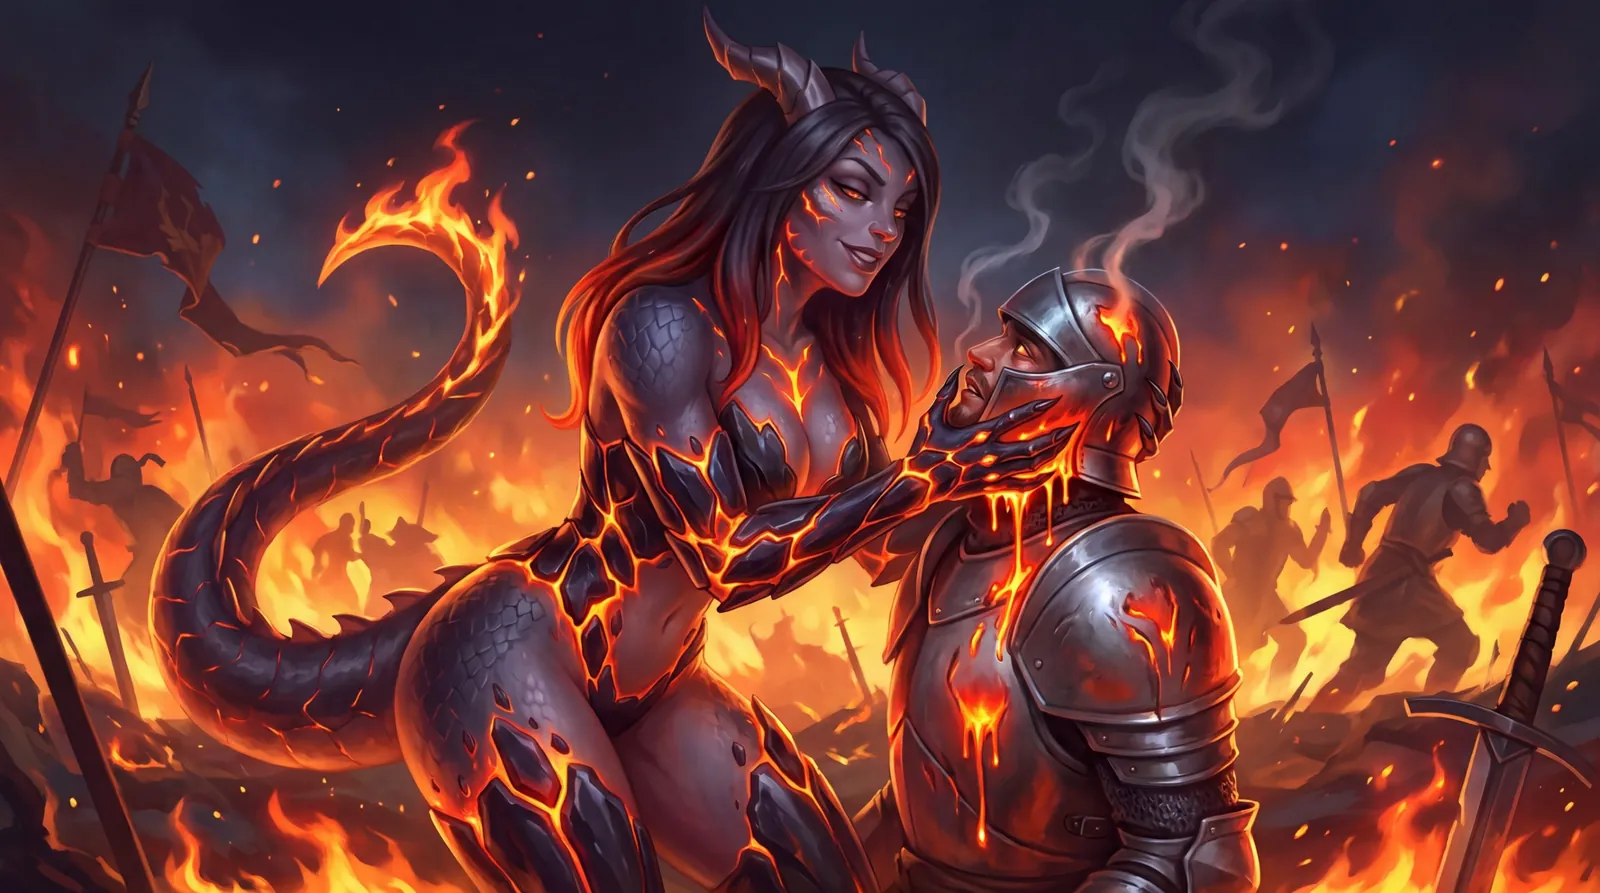
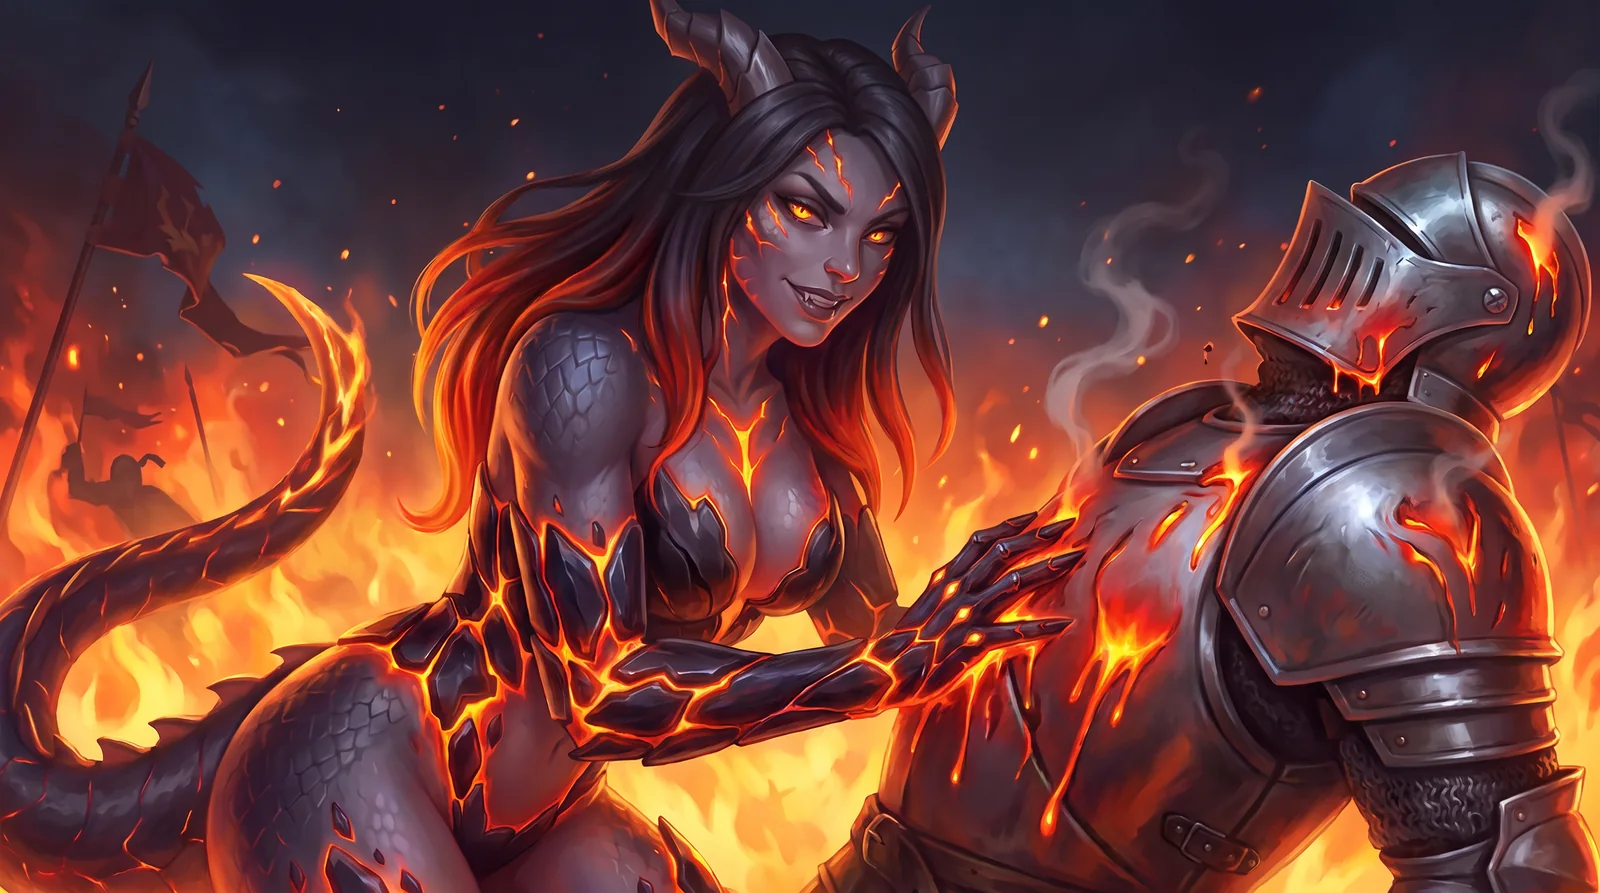
Site: Cinder splash, hot (low angle, melting breastplate)
Claude-Session: https://claude.ai/code/session_01Fa986kEoxoUbsf7VZzVwQa

diff --git a/presskit.html b/presskit.html
@@ -101,19 +101,19 @@
         </div>
         <h2>Hunter art</h2>
         <div class="pk-grid">
-          <a href="assets/img/hunters/lisette-2400.webp?v=2026-11-13o-faces-r1903" target="_blank"><img src="assets/img/hunters/lisette-960.webp?v=2026-11-13o-faces-r1903" alt="Lace splash art" loading="lazy"><span class="pk-cap">Lace</span></a>
-          <a href="assets/img/hunters/breaker-2400.webp?v=2026-11-13o-faces-r1903" target="_blank"><img src="assets/img/hunters/breaker-960.webp?v=2026-11-13o-faces-r1903" alt="Albert splash art" loading="lazy"><span class="pk-cap">Albert</span></a>
-          <a href="assets/img/hunters/vex-2400.webp?v=2026-11-13o-faces-r1903" target="_blank"><img src="assets/img/hunters/vex-960.webp?v=2026-11-13o-faces-r1903" alt="Vex splash art" loading="lazy"><span class="pk-cap">Vex</span></a>
-          <a href="assets/img/hunters/kael-2400.webp?v=2026-11-13o-faces-r1903" target="_blank"><img src="assets/img/hunters/kael-960.webp?v=2026-11-13o-faces-r1903" alt="Kael splash art" loading="lazy"><span class="pk-cap">Kael</span></a>
-          <a href="assets/img/hunters/claire-2400.webp?v=2026-11-13o-faces-r1903" target="_blank"><img src="assets/img/hunters/claire-960.webp?v=2026-11-13o-faces-r1903" alt="Neve splash art" loading="lazy"><span class="pk-cap">Neve</span></a>
-          <a href="assets/img/hunters/cinder-2400.webp?v=2026-11-13o-faces-r1903" target="_blank"><img src="assets/img/hunters/cinder-960.webp?v=2026-11-13o-faces-r1903" alt="Cinder splash art" loading="lazy"><span class="pk-cap">Cinder</span></a>
-          <a href="assets/img/hunters/tarek-2400.webp?v=2026-11-13o-faces-r1903" target="_blank"><img src="assets/img/hunters/tarek-960.webp?v=2026-11-13o-faces-r1903" alt="Tenzo splash art" loading="lazy"><span class="pk-cap">Tenzo</span></a>
-          <a href="assets/img/hunters/ryzz-2400.webp?v=2026-11-13o-faces-r1903" target="_blank"><img src="assets/img/hunters/ryzz-960.webp?v=2026-11-13o-faces-r1903" alt="Sparkle splash art" loading="lazy"><span class="pk-cap">Sparkle</span></a>
-          <a href="assets/img/hunters/grimble-2400.webp?v=2026-11-13o-faces-r1903" target="_blank"><img src="assets/img/hunters/grimble-960.webp?v=2026-11-13o-faces-r1903" alt="Grimble splash art" loading="lazy"><span class="pk-cap">Grimble</span></a>
-          <a href="assets/img/hunters/pip-2400.webp?v=2026-11-13o-faces-r1903" target="_blank"><img src="assets/img/hunters/pip-960.webp?v=2026-11-13o-faces-r1903" alt="Meeko splash art" loading="lazy"><span class="pk-cap">Meeko</span></a>
-          <a href="assets/img/hunters/sable-2400.webp?v=2026-11-13o-faces-r1903" target="_blank"><img src="assets/img/hunters/sable-960.webp?v=2026-11-13o-faces-r1903" alt="Sable splash art" loading="lazy"><span class="pk-cap">Sable</span></a>
-          <a href="assets/img/hunters/gill-2400.webp?v=2026-11-13o-faces-r1903" target="_blank"><img src="assets/img/hunters/gill-960.webp?v=2026-11-13o-faces-r1903" alt="Gill splash art" loading="lazy"><span class="pk-cap">Gill</span></a>
-          <a href="assets/img/hunters/motley-2400.webp?v=2026-11-13o-faces-r1903" target="_blank"><img src="assets/img/hunters/motley-960.webp?v=2026-11-13o-faces-r1903" alt="Motley splash art" loading="lazy"><span class="pk-cap">Motley</span></a>
+          <a href="assets/img/hunters/lisette-2400.webp?v=2026-11-13p" target="_blank"><img src="assets/img/hunters/lisette-960.webp?v=2026-11-13p" alt="Lace splash art" loading="lazy"><span class="pk-cap">Lace</span></a>
+          <a href="assets/img/hunters/breaker-2400.webp?v=2026-11-13p" target="_blank"><img src="assets/img/hunters/breaker-960.webp?v=2026-11-13p" alt="Albert splash art" loading="lazy"><span class="pk-cap">Albert</span></a>
+          <a href="assets/img/hunters/vex-2400.webp?v=2026-11-13p" target="_blank"><img src="assets/img/hunters/vex-960.webp?v=2026-11-13p" alt="Vex splash art" loading="lazy"><span class="pk-cap">Vex</span></a>
+          <a href="assets/img/hunters/kael-2400.webp?v=2026-11-13p" target="_blank"><img src="assets/img/hunters/kael-960.webp?v=2026-11-13p" alt="Kael splash art" loading="lazy"><span class="pk-cap">Kael</span></a>
+          <a href="assets/img/hunters/claire-2400.webp?v=2026-11-13p" target="_blank"><img src="assets/img/hunters/claire-960.webp?v=2026-11-13p" alt="Neve splash art" loading="lazy"><span class="pk-cap">Neve</span></a>
+          <a href="assets/img/hunters/cinder-2400.webp?v=2026-11-13p" target="_blank"><img src="assets/img/hunters/cinder-960.webp?v=2026-11-13p" alt="Cinder splash art" loading="lazy"><span class="pk-cap">Cinder</span></a>
+          <a href="assets/img/hunters/tarek-2400.webp?v=2026-11-13p" target="_blank"><img src="assets/img/hunters/tarek-960.webp?v=2026-11-13p" alt="Tenzo splash art" loading="lazy"><span class="pk-cap">Tenzo</span></a>
+          <a href="assets/img/hunters/ryzz-2400.webp?v=2026-11-13p" target="_blank"><img src="assets/img/hunters/ryzz-960.webp?v=2026-11-13p" alt="Sparkle splash art" loading="lazy"><span class="pk-cap">Sparkle</span></a>
+          <a href="assets/img/hunters/grimble-2400.webp?v=2026-11-13p" target="_blank"><img src="assets/img/hunters/grimble-960.webp?v=2026-11-13p" alt="Grimble splash art" loading="lazy"><span class="pk-cap">Grimble</span></a>
+          <a href="assets/img/hunters/pip-2400.webp?v=2026-11-13p" target="_blank"><img src="assets/img/hunters/pip-960.webp?v=2026-11-13p" alt="Meeko splash art" loading="lazy"><span class="pk-cap">Meeko</span></a>
+          <a href="assets/img/hunters/sable-2400.webp?v=2026-11-13p" target="_blank"><img src="assets/img/hunters/sable-960.webp?v=2026-11-13p" alt="Sable splash art" loading="lazy"><span class="pk-cap">Sable</span></a>
+          <a href="assets/img/hunters/gill-2400.webp?v=2026-11-13p" target="_blank"><img src="assets/img/hunters/gill-960.webp?v=2026-11-13p" alt="Gill splash art" loading="lazy"><span class="pk-cap">Gill</span></a>
+          <a href="assets/img/hunters/motley-2400.webp?v=2026-11-13p" target="_blank"><img src="assets/img/hunters/motley-960.webp?v=2026-11-13p" alt="Motley splash art" loading="lazy"><span class="pk-cap">Motley</span></a>
         </div>
         <h2>Boki art</h2>
         <div class="pk-grid pk-grid-boki" id="pk-boki" hidden></div>

diff --git a/index.html b/index.html
@@ -208,7 +208,7 @@
       <button class="bk-arrow prev h-arrow" type="button" id="h-prev" aria-label="Previous Hunter"><svg viewBox="0 0 24 24" aria-hidden="true"><path d="M15 5l-7 7 7 7" fill="none" stroke="currentColor" stroke-width="2.6" stroke-linecap="round" stroke-linejoin="round"/></svg></button>
       <button class="bk-arrow next h-arrow" type="button" id="h-next" aria-label="Next Hunter"><svg viewBox="0 0 24 24" aria-hidden="true"><path d="M9 5l7 7-7 7" fill="none" stroke="currentColor" stroke-width="2.6" stroke-linecap="round" stroke-linejoin="round"/></svg></button>
       <div class="bk-count h-count"><b id="h-n">01</b> / <span>13</span></div>
-      <div class="shot"><img data-zoom id="h-art" src="assets/img/hunters/ryzz-1600.webp?v=2026-11-13o-faces-r1903" srcset="assets/img/hunters/ryzz-960.webp?v=2026-11-13o-faces-r1903 960w, assets/img/hunters/ryzz-1600.webp?v=2026-11-13o-faces-r1903 1600w, assets/img/hunters/ryzz-2400.webp?v=2026-11-13o-faces-r1903 2400w" sizes="(max-width: 1280px) 100vw, 1240px" alt="Sparkle, the Storm Chaser" loading="lazy"><button class="h-expand" type="button" id="h-expand" aria-label="View full art"><svg viewBox="0 0 24 24" fill="none" stroke="currentColor" stroke-width="2.2" stroke-linecap="round" stroke-linejoin="round" aria-hidden="true"><path d="M14 4h6v6M10 20H4v-6M20 4l-6.5 6.5M4 20l6.5-6.5"/></svg></button></div>
+      <div class="shot"><img data-zoom id="h-art" src="assets/img/hunters/ryzz-1600.webp?v=2026-11-13p" srcset="assets/img/hunters/ryzz-960.webp?v=2026-11-13p 960w, assets/img/hunters/ryzz-1600.webp?v=2026-11-13p 1600w, assets/img/hunters/ryzz-2400.webp?v=2026-11-13p 2400w" sizes="(max-width: 1280px) 100vw, 1240px" alt="Sparkle, the Storm Chaser" loading="lazy"><button class="h-expand" type="button" id="h-expand" aria-label="View full art"><svg viewBox="0 0 24 24" fill="none" stroke="currentColor" stroke-width="2.2" stroke-linecap="round" stroke-linejoin="round" aria-hidden="true"><path d="M14 4h6v6M10 20H4v-6M20 4l-6.5 6.5M4 20l6.5-6.5"/></svg></button></div>
       <div class="info" aria-live="polite">
         <div class="role" id="h-role" data-role="Skirmisher">Skirmisher</div>
         <h3 id="h-name">Sparkle</h3>
@@ -292,7 +292,7 @@
   <symbol id="i-play" viewBox="0 0 24 24"><path d="M7 4.5v15a1 1 0 0 0 1.5.86l12.4-7.5a1 1 0 0 0 0-1.72L8.5 3.64A1 1 0 0 0 7 4.5Z"/></symbol>
 </svg>
 
-<script src="assets/site.js?v=248"></script>
+<script src="assets/site.js?v=249"></script>
 <script src="/assets/topbar.js?v=5" defer></script>
 </body>
 </html>

diff --git a/assets/site.js b/assets/site.js
@@ -188,7 +188,7 @@ if (heroIn && !calm) {
 
 /* ---------- Hunters: pick a Mask ---------- */
 // [id, name, title, has an up-to-date in-game model, role (from the kit's role line in the game)]
-const ART_V = "2026-11-13o-faces-r1903"; // bump when a Hunter splash changes
+const ART_V = "2026-11-13p"; // bump when a Hunter splash changes
 const HUNTERS = [
   ["ryzz", "Sparkle", "The Storm Chaser", true, "Skirmisher"],
   ["tarek", "Tenzo", "The Stone Seer", true, "Brawler"],
